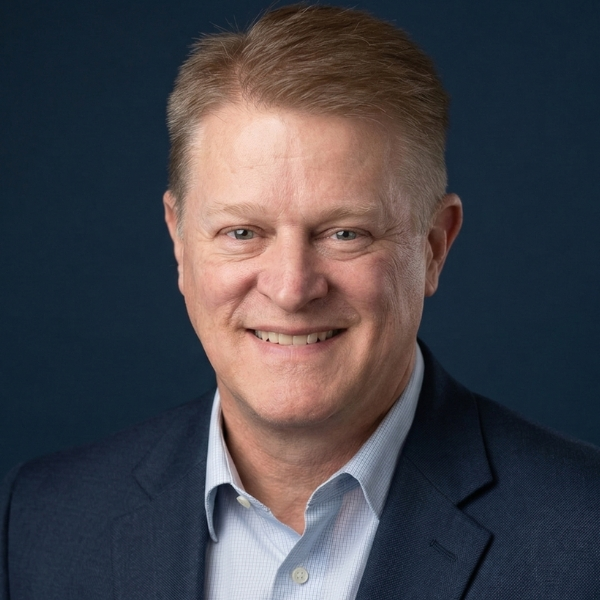
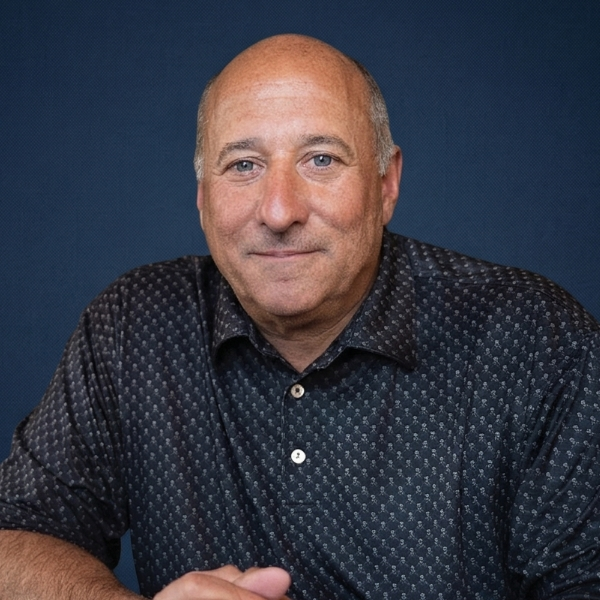
Update speaker photos, add Buddy Sell, update Troy's title
Fix misassigned speaker photos (Patrick Tuttle and Troy McKissick
had each other's photos, and Buddy Sell's photo was labeled as Troy).
Add Buddy Sell as Executive Advisor to the CEO. Update Troy McKissick's
title from VP & Controller to Interim CFO. Adjust speaker grid to 4
columns to accommodate the additional speaker.

https://claude.ai/code/session_01ENiLvVmZSx9ifxtHNV2Con

diff --git a/app/data/summit-content.ts b/app/data/summit-content.ts
@@ -61,9 +61,15 @@ export const speakers = [
   },
   {
     name: "Troy McKissick",
-    role: "VP & Controller",
+    role: "Interim CFO",
     image: "/images/troy-mckissick.jpg",
     objectPosition: "50% 53%",
+  },
+  {
+    name: "Buddy Sell",
+    role: "Executive Advisor to the CEO",
+    image: "/images/buddy-sell.jpg",
+    objectPosition: "50% 50%",
   },
 ];
 

diff --git a/app/globals.css b/app/globals.css
@@ -288,7 +288,7 @@ a.ticker-item:hover { color:var(--green); }
 
 /* ═══════════ SPEAKER CARDS ═══════════ */
 .spk-grid {
-  display:grid; grid-template-columns:repeat(3,1fr); gap:16px;
+  display:grid; grid-template-columns:repeat(4,1fr); gap:16px;
   margin-top:36px;
 }
 .spk-card {